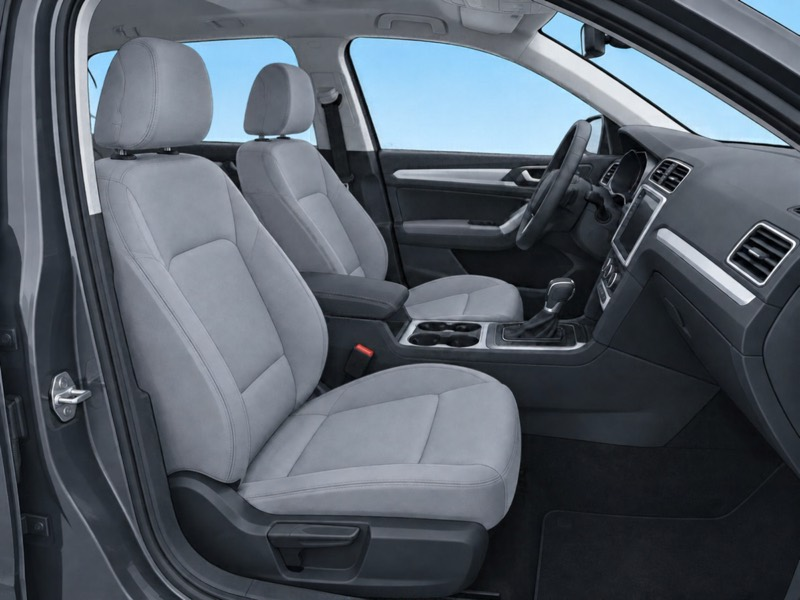
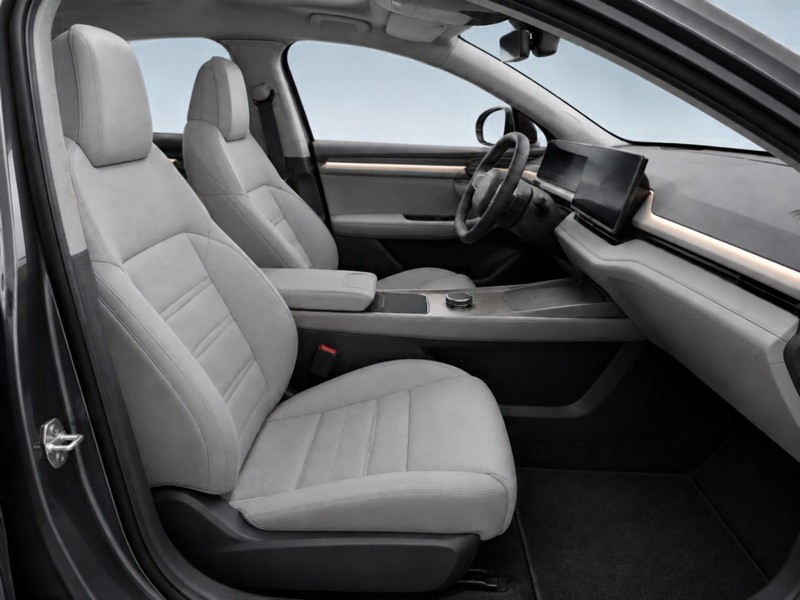
Foto-App 17 h: Innenbilder ohne VW-Ähnlichkeit (Giannis), neu umgerechnet

diff --git a/foto-app-test/beispiel/README.md b/foto-app-test/beispiel/README.md
@@ -13,4 +13,4 @@ Die Bilder zeigen dem Händler vor jedem Foto, wie das Auto im Bild stehen soll 
 - `limousine/`, `kleinwagen/`, `coupe/`: je 8 Außenansichten. Die Dateinamen sind die Platz-Schlüssel der App: titel, front, dreiviertel_vr, dreiviertel_hr, heck, dreiviertel_hl, seite_l, seite_r.
 - `innen/`: cockpit, tacho, vordersitze, ruecksitzbank, kofferraum. Sie gelten für alle Klassen.
 - Andere Klassen bekommen die Bilder der nächsten Form: Kompakt nimmt Kleinwagen, SUV nimmt Limousine, Cabrio nimmt Coupé.
-- Jedes Bild ist ein JPEG mit 800 × 600 Pixeln (4:3) und unter 100 KB. Umgerechnet mit `sips` in Qualität 72, das Tacho-Bild in 62. Zusammen 29 Dateien mit 1.460.596 Byte. Das Coupé ist zweitürig (Giannis: „Coupé zweitürig“).
+- Jedes Bild ist ein JPEG mit 800 × 600 Pixeln (4:3) und unter 100 KB. Umgerechnet mit `sips` in Qualität 72. Zusammen 29 Dateien mit 1.430.634 Byte. Das Coupé ist zweitürig (Giannis: „Coupé zweitürig“). Cockpit, Tacho, Vordersitze und Rücksitzbank haben ein eigenes Design mit digitalem Tacho (Kilometerstand 36240 km), weil die erste Fassung zu sehr nach VW aussah (Giannis: „es sieht zu sehr nach VW aus, dafür können wir ärger bekommen“). Alfred hat beim Cockpit einen Platzhaltertext von Canva und ein emblemartiges Zeichen wegretuschiert.
